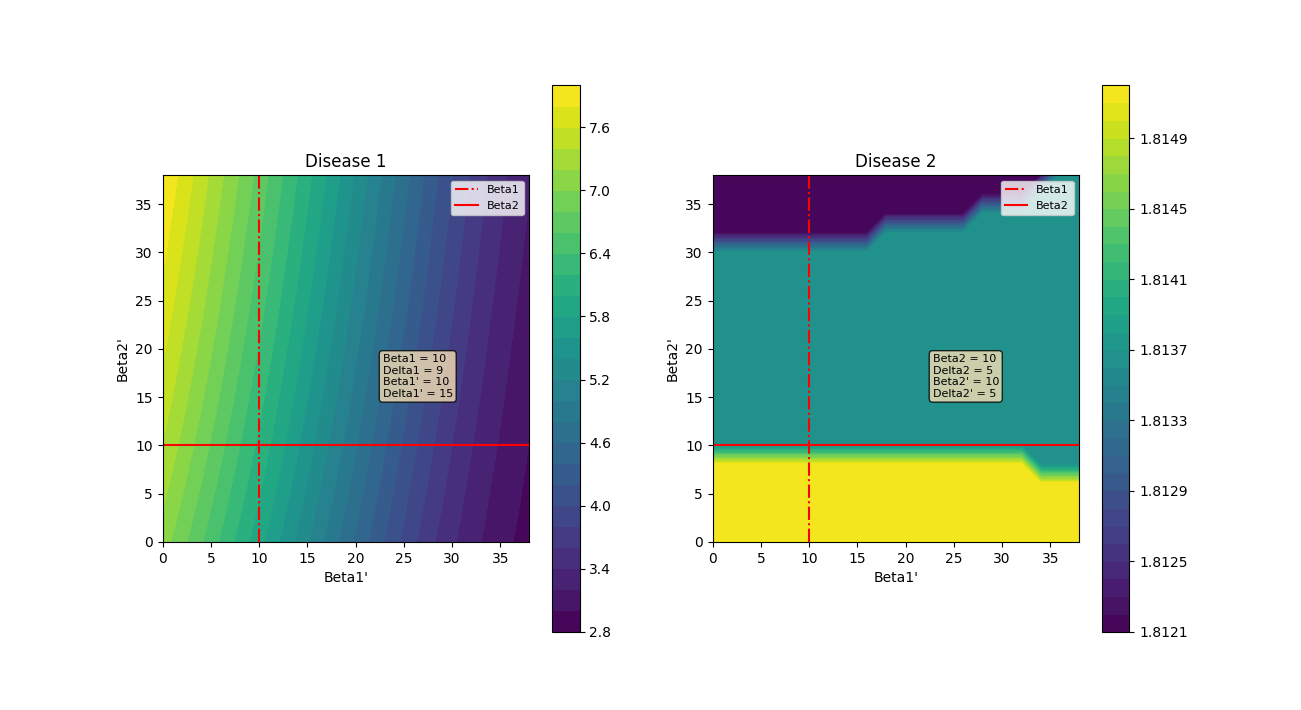
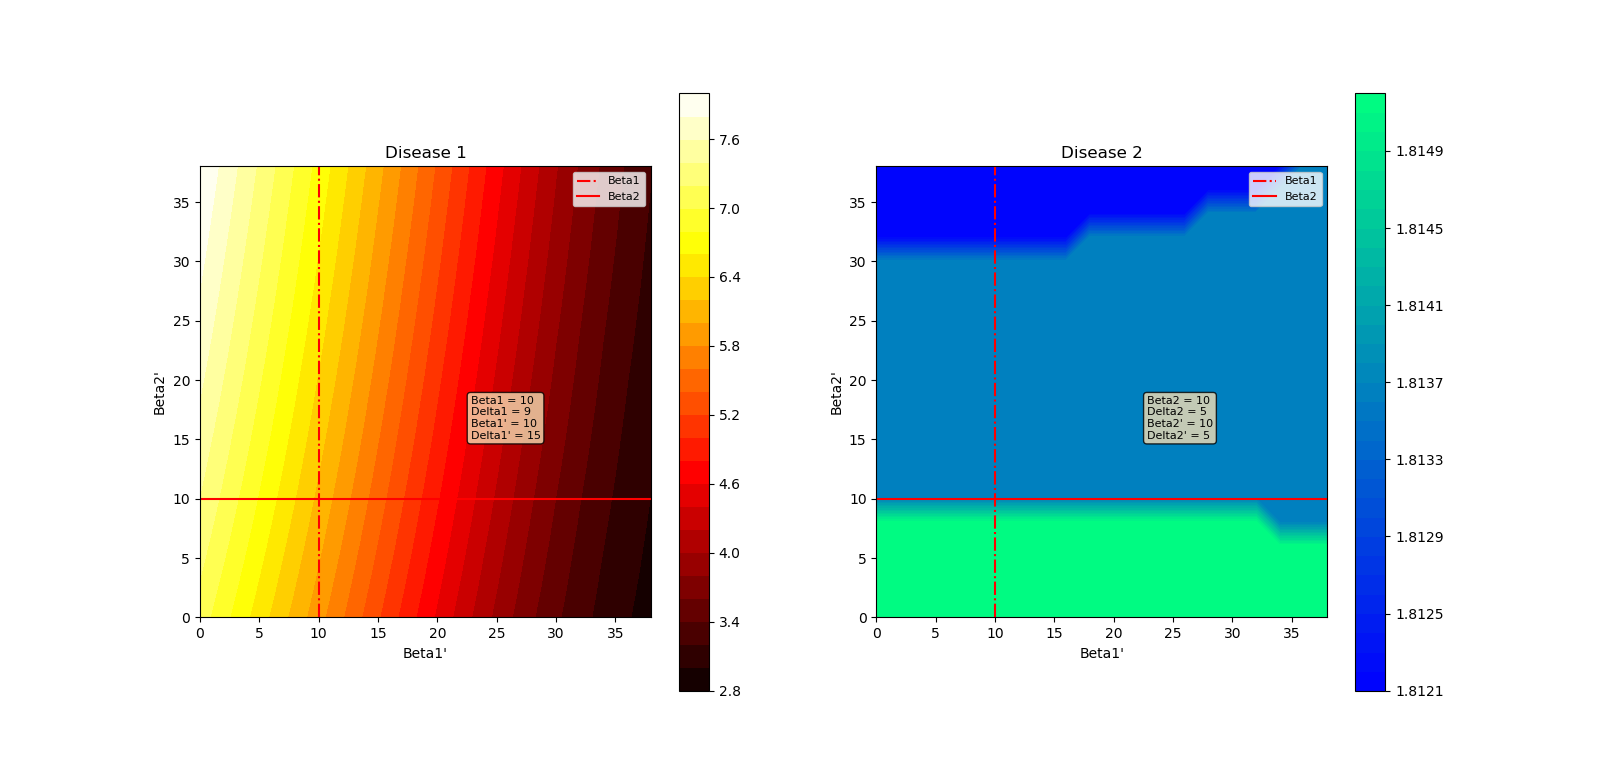
Update plot 2D plots

diff --git a/analysis.py b/analysis.py
@@ -46,7 +46,7 @@ class modelAnalysis:
         ax[0].plot(self.params[0] * np.ones(len(beta2prime_arr)), beta2prime_arr, '-.r')
         ax[0].plot(beta1prime_arr, self.params[1] * np.ones(len(beta1prime_arr)), '-r')
         ax[0].legend(('Beta1', 'Beta2'), fontsize=fontsize)
-        cf1 = ax[0].contourf(Beta2prime, Beta1prime, peak1, 30)
+        cf1 = ax[0].contourf(Beta2prime, Beta1prime, peak1, 30, cmap='hot')
         #ax[0].contour(Beta1prime, Beta2prime, peak1, 10, colors='black')
         fig.colorbar(cf1, ax=ax[0])
         txt = ("Beta1 = " + str(self.params[0]) + "\n Delta1 = " + str(self.params[2])
@@ -61,7 +61,7 @@ class modelAnalysis:
         ax[1].plot(self.params[0] * np.ones(len(beta2prime_arr)), beta2prime_arr, '-.r')
         ax[1].plot(beta1prime_arr, self.params[1] * np.ones(len(beta1prime_arr)), '-r')
         ax[1].legend(('Beta1', 'Beta2'), fontsize=fontsize)
-        cf2 = ax[1].contourf(Beta2prime, Beta1prime, peak2, 30)
+        cf2 = ax[1].contourf(Beta2prime, Beta1prime, peak2, 30, cmap='winter')
         #ax[1].contour(Beta1prime, Beta2prime, peak2, 10, colors='black')
         fig.colorbar(cf2, ax=ax[1])
         txt = ("Beta2 = " + str(self.params[1]) + "\n Delta2 = " + str(self.params[3])
@@ -107,7 +107,7 @@ class modelAnalysis:
         ax[0].plot(self.params[0] * np.ones(len(beta2prime_arr)), beta2prime_arr, '-.r')
         ax[0].plot(beta1prime_arr, self.params[1] * np.ones(len(beta1prime_arr)), '-r')
         ax[0].legend(('Beta1', 'Beta2'), fontsize=fontsize)
-        cf1 = ax[0].contourf(Beta2prime, Beta1prime, inf1, 30)
+        cf1 = ax[0].contourf(Beta2prime, Beta1prime, inf1, 30, cmap='hot')
         #ax[0].contour(Beta1prime, Beta2prime, peak1, 10, colors='black')
         fig.colorbar(cf1, ax=ax[0])
         txt = ("Beta1 = " + str(self.params[0]) + "\n Delta1 = " + str(self.params[2])
@@ -122,7 +122,7 @@ class modelAnalysis:
         ax[1].plot(self.params[0] * np.ones(len(beta2prime_arr)), beta2prime_arr, '-.r')
         ax[1].plot(beta1prime_arr, self.params[1] * np.ones(len(beta1prime_arr)), '-r')
         ax[1].legend(('Beta1', 'Beta2'), fontsize=fontsize)
-        cf2 = ax[1].contourf(Beta2prime, Beta1prime, inf2, 30)
+        cf2 = ax[1].contourf(Beta2prime, Beta1prime, inf2, 30, cmap='winter')
         #ax[1].contour(Beta1prime, Beta2prime, peak2, 10, colors='black')
         fig.colorbar(cf2, ax=ax[1])
         txt = ("Beta2 = " + str(self.params[1]) + "\n Delta2 = " + str(self.params[3])
@@ -263,9 +263,9 @@ def getAnalysis():
 
     siirSim_orig = modelAnalysis(SIIR0, params, t_sim)
 
-    siirSim_orig.plotChange(betaprime_arr=np.array([5, 15, 40]), fixed=1, peak=False)
-    siirSim_orig.plotChange(betaprime_arr=np.array([5, 15, 40]), fixed=2, peak=False)
-    #siirSim_orig.plotPeak2D(beta1prime_arr=np.arange(0, 40, 2), beta2prime_arr=np.arange(0, 40, 2), savefig=False)
-    #siirSim_orig.plotInfected2D(beta1prime_arr=np.arange(0, 40, 2), beta2prime_arr=np.arange(0, 40, 2), savefig=False)
+    #siirSim_orig.plotChange(betaprime_arr=np.array([5, 15, 40]), fixed=1, peak=False)
+    #siirSim_orig.plotChange(betaprime_arr=np.array([5, 15, 40]), fixed=2, peak=False)
+    siirSim_orig.plotPeak2D(beta1prime_arr=np.arange(0, 40, 2), beta2prime_arr=np.arange(0, 40, 2), savefig=False)
+    siirSim_orig.plotInfected2D(beta1prime_arr=np.arange(0, 40, 2), beta2prime_arr=np.arange(0, 40, 2), savefig=False)
 
 getAnalysis()
